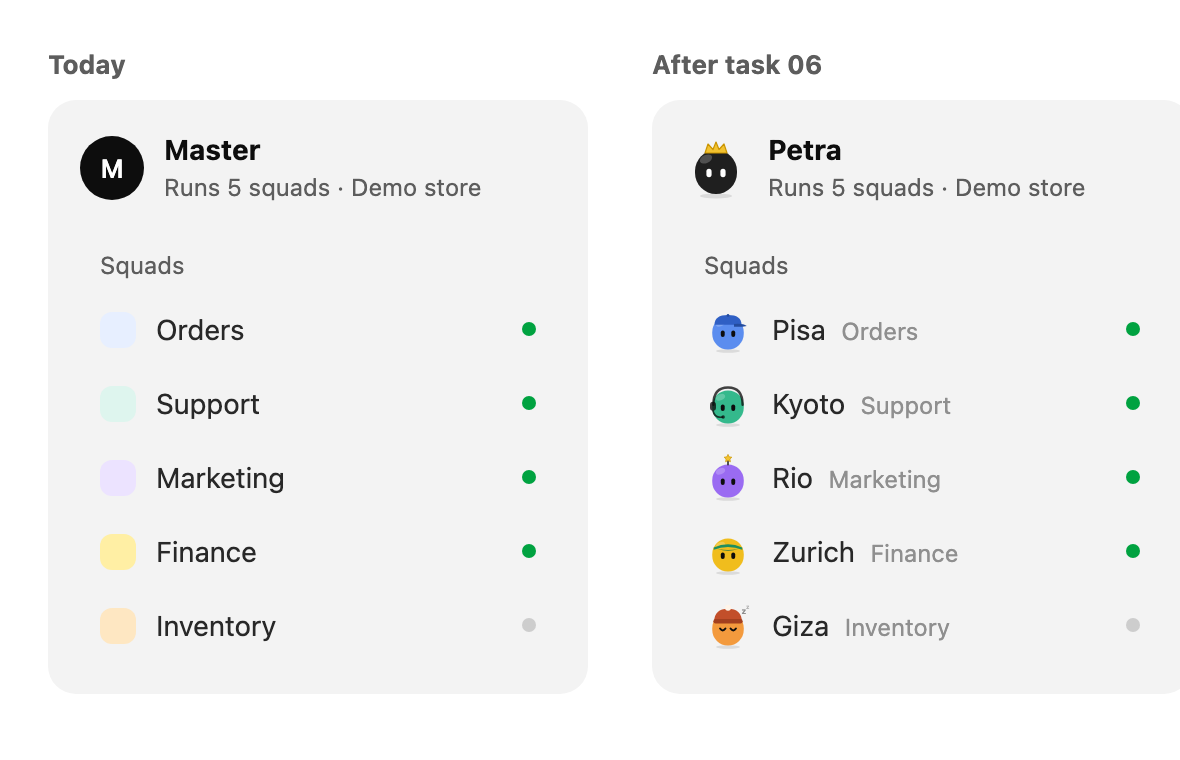
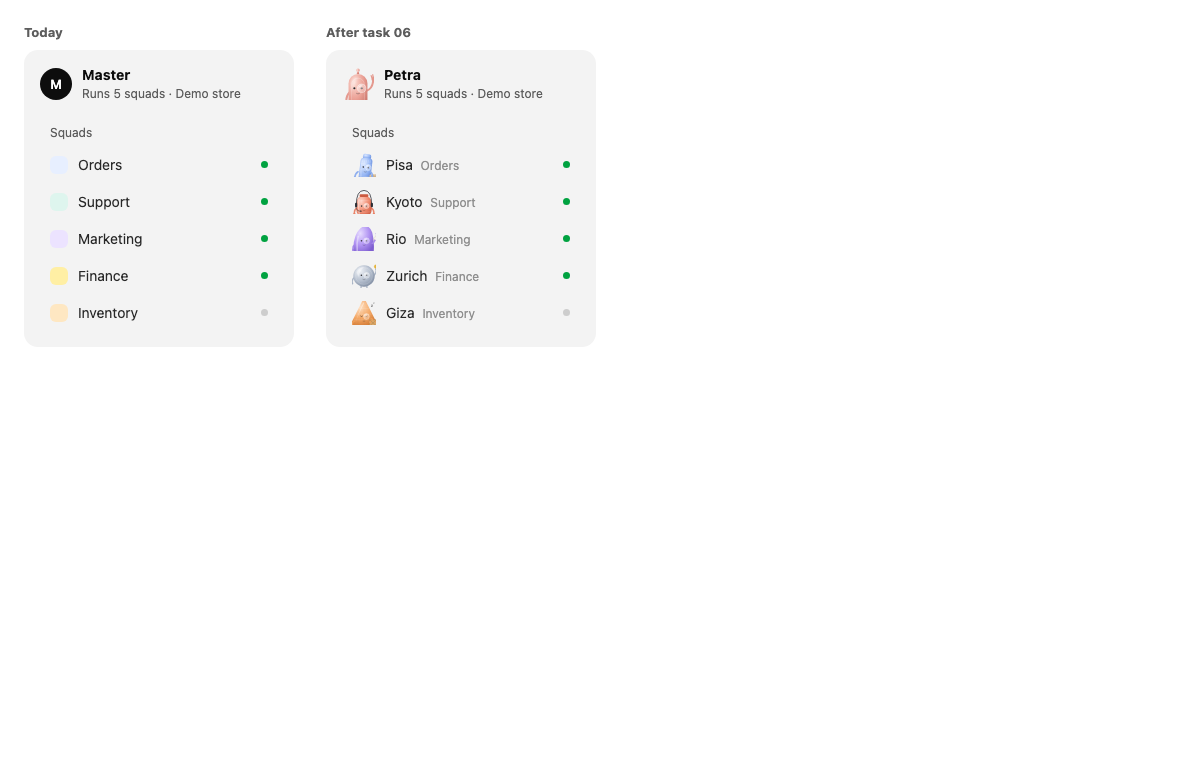
Show the current mascots in the squadmates sidebar design
The sidebar design still drew the old round characters. It now draws the frosted mascots from scripts/squadmates, the same code as the app. Giza shows the dropped state.

diff --git a/pages/squadmates-sidebar/sidebar.html b/pages/squadmates-sidebar/sidebar.html
@@ -3,45 +3,74 @@
 .mi{width:32px;height:32px;border-radius:50%;background:#0d0d0d;color:#fff;display:inline-flex;align-items:center;justify-content:center;font-weight:600;font-size:13px}
 .lb{font-size:12px;color:#5d5d5d;margin:0 0 6px 10px}.r{display:flex;align-items:center;gap:10px;height:37px;padding:0 10px;font-size:14px}.sq{width:18px;height:18px;border-radius:6px}.n{flex:1}.t{font-size:12px;color:#8f8f8f;margin-left:4px}.r i{width:7px;height:7px;border-radius:50%}</style></head><body>
 <div class="col"><h4>Today</h4><div class="sb"><div class="hd"><span class="mi">M</span><div><b>Master</b><small>Runs 5 squads · Demo store</small></div></div><div class="lb">Squads</div><div class="r"><span class="sq" style="background:#e7efff"></span><span class="n">Orders</span><i style="background:#00a240"></i></div><div class="r"><span class="sq" style="background:#def5ee"></span><span class="n">Support</span><i style="background:#00a240"></i></div><div class="r"><span class="sq" style="background:#ece3ff"></span><span class="n">Marketing</span><i style="background:#00a240"></i></div><div class="r"><span class="sq" style="background:#ffefa4"></span><span class="n">Finance</span><i style="background:#00a240"></i></div><div class="r"><span class="sq" style="background:#fee7c2"></span><span class="n">Inventory</span><i style="background:#cdcdcd"></i></div></div></div><div class="col"><h4>After task 06</h4><div class="sb"><div class="hd"><svg xmlns="http://www.w3.org/2000/svg" viewBox="0 0 64 64" width="32" height="32" role="img" aria-label="Petra, Master">
-<ellipse cx="32" cy="60" rx="16" ry="2.4" fill="rgba(13,13,13,.10)"/>
-<rect x="11" y="14" width="42" height="44" rx="21" fill="#1f1f1f"/>
-<ellipse cx="22" cy="23" rx="6.5" ry="4" fill="#fff" opacity=".22" transform="rotate(-24 22 23)"/>
-<path d="M21 17 L24 8 L29 13.5 L32 6 L35 13.5 L40 8 L43 17 Z" fill="#f2c230" stroke="#c99400" stroke-width="1.2" stroke-linejoin="round"/>
-<g class="sm-blink"><rect x="22.4" y="32.8" width="5.2" height="8.4" rx="2.6" fill="#ffffff"/><rect x="36.4" y="32.8" width="5.2" height="8.4" rx="2.6" fill="#ffffff"/></g>
+<defs><radialGradient id="sm-petra-b" cx="32%" cy="26%" r="85%"><stop offset="0" stop-color="#FBD8D0"/><stop offset=".55" stop-color="#EBA196"/><stop offset="1" stop-color="#C9746A"/></radialGradient><radialGradient id="sm-petra-l" cx="35%" cy="30%" r="75%"><stop offset="0" stop-color="#fff" stop-opacity=".55"/><stop offset="1" stop-color="#fff" stop-opacity=".08"/></radialGradient><filter id="sm-petra-f" x="-20%" y="-20%" width="140%" height="140%"><feGaussianBlur stdDeviation="6"/></filter><filter id="sm-petra-s" x="-50%" y="-50%" width="200%" height="200%"><feGaussianBlur stdDeviation="8"/></filter></defs><g transform="scale(0.30476) translate(-45 -45)"><path d="M125 300 L122 344" fill="none" stroke="#E3958A" stroke-width="13" stroke-linecap="round" stroke-linejoin="round" opacity=".96"/><path d="M175 300 L178 344" fill="none" stroke="#E3958A" stroke-width="13" stroke-linecap="round" stroke-linejoin="round" opacity=".96"/><ellipse cx="118" cy="347" rx="17" ry="9" fill="#E3958A"/><ellipse cx="182" cy="347" rx="17" ry="9" fill="#E3958A"/>
+<path d="M94 205 Q70 230 74 268" fill="none" stroke="#E3958A" stroke-width="13" stroke-linecap="round" stroke-linejoin="round" opacity=".96"/><circle cx="74" cy="270" r="10" fill="#E3958A"/>
+<path d="M206 195 Q244 182 250 128" fill="none" stroke="#E3958A" stroke-width="13" stroke-linecap="round" stroke-linejoin="round" opacity=".96"/><g transform="translate(250 118)"><ellipse rx="12" ry="14" fill="#E3958A"/><path d="M-9 -8 L-14 -24 M-2 -12 L-3 -30 M5 -11 L9 -28 M10 -5 L18 -18" stroke="#E3958A" stroke-width="7" stroke-linecap="round"/></g>
+<path d="M150 60 m-11 0 a11 11 0 1 0 22 0 a11 11 0 1 0 -22 0 M144 68 L156 68 L158 84 L142 84 Z" fill="url(#sm-petra-b)"/>
+<path d="M88 296 L88 146 A62 62 0 0 1 212 146 L212 296 Q212 310 198 310 L102 310 Q88 310 88 296 Z" fill="url(#sm-petra-b)"/>
+<path d="M108 300 L108 154 A42 42 0 0 1 192 154 L192 300" fill="none" stroke="#fff" stroke-opacity=".28" stroke-width="5"/>
+<path d="M104 150 A46 46 0 0 1 150 104 Q132 130 112 200 Z" fill="#fff" opacity=".42" filter="url(#sm-petra-f)"/>
+<g class="sm-blink"><circle cx="126" cy="178" r="7" fill="#1B1B1F"/><circle cx="123.55" cy="175.55" r="2.1" fill="#fff" opacity=".9"/><circle cx="174" cy="178" r="7" fill="#1B1B1F"/><circle cx="171.55" cy="175.55" r="2.1" fill="#fff" opacity=".9"/></g><circle cx="174" cy="178" r="27" fill="url(#sm-petra-l)" stroke="#fff" stroke-opacity=".9" stroke-width="4"/><circle cx="174" cy="178" r="20" fill="none" stroke="#fff" stroke-opacity=".45" stroke-width="2"/><path d="M159.15 168.55 A18.9 18.9 0 0 1 171.3 159.64" fill="none" stroke="#fff" stroke-width="4" stroke-linecap="round" opacity=".85"/><path d="M140 212 Q150 220 160 212" fill="none" stroke="#1B1B1F" stroke-width="3" stroke-linecap="round" opacity=".7"/></g>
 
 </svg><div><b>Petra</b><small>Runs 5 squads · Demo store</small></div></div><div class="lb">Squads</div><div class="r"><svg xmlns="http://www.w3.org/2000/svg" viewBox="0 0 64 64" width="24" height="24" role="img" aria-label="Pisa, Orders">
-<ellipse cx="32" cy="60" rx="16" ry="2.4" fill="rgba(13,13,13,.10)"/>
-<rect x="11" y="14" width="42" height="44" rx="21" fill="#5b8def"/>
-<ellipse cx="22" cy="23" rx="6.5" ry="4" fill="#fff" opacity=".22" transform="rotate(-24 22 23)"/>
-<path d="M14 25 Q14 12 32 12 Q50 12 50 25 Z" fill="#2f5fc4"/><path d="M40 24 Q52 23 57 26.5 Q50 28 40 27.5 Z" fill="#244c9e"/><circle cx="32" cy="12.5" r="1.8" fill="#244c9e"/>
-<g class="sm-blink"><rect x="22.4" y="32.8" width="5.2" height="8.4" rx="2.6" fill="#0d0d0d"/><rect x="36.4" y="32.8" width="5.2" height="8.4" rx="2.6" fill="#0d0d0d"/></g>
+<defs><radialGradient id="sm-pisa-b" cx="32%" cy="26%" r="85%"><stop offset="0" stop-color="#DCE8FF"/><stop offset=".55" stop-color="#97B7F5"/><stop offset="1" stop-color="#5F86D6"/></radialGradient><radialGradient id="sm-pisa-l" cx="35%" cy="30%" r="75%"><stop offset="0" stop-color="#fff" stop-opacity=".55"/><stop offset="1" stop-color="#fff" stop-opacity=".08"/></radialGradient><filter id="sm-pisa-f" x="-20%" y="-20%" width="140%" height="140%"><feGaussianBlur stdDeviation="6"/></filter><filter id="sm-pisa-s" x="-50%" y="-50%" width="200%" height="200%"><feGaussianBlur stdDeviation="8"/></filter></defs><g transform="scale(0.30476) translate(-45 -50)"><path d="M128 296 L125 344" fill="none" stroke="#8AACEE" stroke-width="13" stroke-linecap="round" stroke-linejoin="round" opacity=".96"/><path d="M182 296 L185 344" fill="none" stroke="#8AACEE" stroke-width="13" stroke-linecap="round" stroke-linejoin="round" opacity=".96"/><ellipse cx="121" cy="347" rx="17" ry="9" fill="#8AACEE"/><ellipse cx="189" cy="347" rx="17" ry="9" fill="#8AACEE"/>
+<g transform="rotate(7 150 300)">
+<rect x="114" y="58" width="72" height="44" rx="16" fill="url(#sm-pisa-b)"/>
+<rect x="98" y="92" width="104" height="212" rx="30" fill="url(#sm-pisa-b)"/>
+<path d="M104 146 L196 146 M104 200 L196 200 M104 254 L196 254" fill="none" stroke="#fff" stroke-opacity=".3" stroke-width="4" stroke-linecap="round" stroke-linejoin="round"/>
+<path d="M118 112 v18 M134 112 v18 M150 112 v18 M166 112 v18 M182 112 v18" stroke="#fff" stroke-opacity=".35" stroke-width="5" stroke-linecap="round"/>
+<path d="M106 110 Q104 200 112 290 L122 290 Q114 200 118 110 Z" fill="#fff" opacity=".42" filter="url(#sm-pisa-f)"/>
+<g class="sm-blink"><circle cx="128" cy="174" r="7" fill="#1B1B1F"/><circle cx="125.55" cy="171.55" r="2.1" fill="#fff" opacity=".9"/><circle cx="172" cy="174" r="7" fill="#1B1B1F"/><circle cx="169.55" cy="171.55" r="2.1" fill="#fff" opacity=".9"/></g><circle cx="172" cy="174" r="24" fill="url(#sm-pisa-l)" stroke="#fff" stroke-opacity=".9" stroke-width="4"/><circle cx="172" cy="174" r="17" fill="none" stroke="#fff" stroke-opacity=".45" stroke-width="2"/><path d="M158.8 165.6 A16.799999999999997 16.799999999999997 0 0 1 169.6 157.68" fill="none" stroke="#fff" stroke-width="4" stroke-linecap="round" opacity=".85"/><path d="M140 214 Q150 222 160 214" fill="none" stroke="#1B1B1F" stroke-width="3" stroke-linecap="round" opacity=".7"/>
+</g>
+<path d="M98 214 Q72 230 70 262" fill="none" stroke="#8AACEE" stroke-width="13" stroke-linecap="round" stroke-linejoin="round" opacity=".96"/><circle cx="70" cy="264" r="10" fill="#8AACEE"/>
+<g transform="rotate(-4 236 268)"><rect x="200" y="238" width="72" height="56" rx="8" fill="#E2C49A"/><path d="M200 258 L272 258 M236 238 L236 258" stroke="#C9A472" stroke-width="5"/></g>
+<path d="M204 214 Q226 226 222 250" fill="none" stroke="#8AACEE" stroke-width="13" stroke-linecap="round" stroke-linejoin="round" opacity=".96"/><circle cx="222" cy="252" r="10" fill="#8AACEE"/><circle cx="262" cy="246" r="10" fill="#8AACEE"/></g>
 
 </svg><span class="n">Pisa <span class="t">Orders</span></span><i style="background:#00a240"></i></div><div class="r"><svg xmlns="http://www.w3.org/2000/svg" viewBox="0 0 64 64" width="24" height="24" role="img" aria-label="Kyoto, Support">
-<ellipse cx="32" cy="60" rx="16" ry="2.4" fill="rgba(13,13,13,.10)"/>
-<rect x="11" y="14" width="42" height="44" rx="21" fill="#34b98c"/>
-<ellipse cx="22" cy="23" rx="6.5" ry="4" fill="#fff" opacity=".22" transform="rotate(-24 22 23)"/>
-<path d="M12.5 33 Q12.5 10 32 10 Q51.5 10 51.5 33" fill="none" stroke="rgba(13,13,13,.78)" stroke-width="3.2" stroke-linecap="round"/><rect x="8" y="29" width="8" height="12" rx="4" fill="rgba(13,13,13,.78)"/><path d="M12 41 Q14 51 24.5 49.5" fill="none" stroke="rgba(13,13,13,.78)" stroke-width="2.2" stroke-linecap="round"/><circle cx="25.5" cy="49.3" r="2.3" fill="rgba(13,13,13,.78)"/>
-<g class="sm-blink"><rect x="22.4" y="32.8" width="5.2" height="8.4" rx="2.6" fill="#0d0d0d"/><rect x="36.4" y="32.8" width="5.2" height="8.4" rx="2.6" fill="#0d0d0d"/></g>
+<defs><radialGradient id="sm-kyoto-b" cx="32%" cy="26%" r="85%"><stop offset="0" stop-color="#FFD3C7"/><stop offset=".55" stop-color="#F08B70"/><stop offset="1" stop-color="#CC5A40"/></radialGradient><radialGradient id="sm-kyoto-l" cx="35%" cy="30%" r="75%"><stop offset="0" stop-color="#fff" stop-opacity=".55"/><stop offset="1" stop-color="#fff" stop-opacity=".08"/></radialGradient><filter id="sm-kyoto-f" x="-20%" y="-20%" width="140%" height="140%"><feGaussianBlur stdDeviation="6"/></filter><filter id="sm-kyoto-s" x="-50%" y="-50%" width="200%" height="200%"><feGaussianBlur stdDeviation="8"/></filter></defs><g transform="scale(0.29091) translate(-40 -50)"><path d="M126 296 L123 344" fill="none" stroke="#E98065" stroke-width="13" stroke-linecap="round" stroke-linejoin="round" opacity=".96"/><path d="M174 296 L177 344" fill="none" stroke="#E98065" stroke-width="13" stroke-linecap="round" stroke-linejoin="round" opacity=".96"/><ellipse cx="119" cy="347" rx="17" ry="9" fill="#E98065"/><ellipse cx="181" cy="347" rx="17" ry="9" fill="#E98065"/>
+<path d="M84 214 Q58 234 62 266" fill="none" stroke="#E98065" stroke-width="13" stroke-linecap="round" stroke-linejoin="round" opacity=".96"/><circle cx="62" cy="268" r="10" fill="#E98065"/>
+<path d="M216 214 Q244 232 240 266" fill="none" stroke="#E98065" stroke-width="13" stroke-linecap="round" stroke-linejoin="round" opacity=".96"/><circle cx="240" cy="268" r="10" fill="#E98065"/>
+<rect x="80" y="102" width="140" height="196" rx="66" fill="url(#sm-kyoto-b)"/>
+<rect x="110" y="88" width="80" height="26" rx="9" fill="#CC5A40"/>
+<rect x="110" y="286" width="80" height="22" rx="9" fill="#CC5A40"/>
+<path d="M92 150 Q150 138 208 150 M86 200 Q150 190 214 200 M92 250 Q150 262 208 250" fill="none" stroke="#fff" stroke-opacity=".3" stroke-width="4" stroke-linecap="round" stroke-linejoin="round"/>
+<path d="M98 130 Q86 200 100 270 L112 270 Q100 200 110 130 Z" fill="#fff" opacity=".42" filter="url(#sm-kyoto-f)"/>
+<g class="sm-blink"><circle cx="128" cy="196" r="7" fill="#1B1B1F"/><circle cx="125.55" cy="193.55" r="2.1" fill="#fff" opacity=".9"/><circle cx="172" cy="196" r="7" fill="#1B1B1F"/><circle cx="169.55" cy="193.55" r="2.1" fill="#fff" opacity=".9"/></g><circle cx="172" cy="196" r="24" fill="url(#sm-kyoto-l)" stroke="#fff" stroke-opacity=".9" stroke-width="4"/><circle cx="172" cy="196" r="17" fill="none" stroke="#fff" stroke-opacity=".45" stroke-width="2"/><path d="M158.8 187.6 A16.799999999999997 16.799999999999997 0 0 1 169.6 179.68" fill="none" stroke="#fff" stroke-width="4" stroke-linecap="round" opacity=".85"/><path d="M140 236 Q150 244 160 236" fill="none" stroke="#1B1B1F" stroke-width="3" stroke-linecap="round" opacity=".7"/>
+<path d="M80 186 Q78 54 150 54 Q222 54 220 186" fill="none" stroke="#2A2D34" stroke-width="7" stroke-linecap="round"/>
+<rect x="68" y="168" width="20" height="40" rx="9" fill="#2A2D34"/><rect x="212" y="168" width="20" height="40" rx="9" fill="#2A2D34"/>
+<path d="M74 206 Q84 250 120 244" fill="none" stroke="#2A2D34" stroke-width="5" stroke-linecap="round"/><circle cx="122" cy="244" r="6" fill="#2A2D34"/></g>
 
 </svg><span class="n">Kyoto <span class="t">Support</span></span><i style="background:#00a240"></i></div><div class="r"><svg xmlns="http://www.w3.org/2000/svg" viewBox="0 0 64 64" width="24" height="24" role="img" aria-label="Rio, Marketing">
-<ellipse cx="32" cy="60" rx="16" ry="2.4" fill="rgba(13,13,13,.10)"/>
-<rect x="11" y="14" width="42" height="44" rx="21" fill="#9a6bf2"/>
-<ellipse cx="22" cy="23" rx="6.5" ry="4" fill="#fff" opacity=".22" transform="rotate(-24 22 23)"/>
-<path d="M32 14 L32 6" stroke="rgba(13,13,13,.78)" stroke-width="2.4" stroke-linecap="round"/><path d="M32 0.5 l1.6 3.3 l3.6 .5 l-2.6 2.5 l.6 3.6 l-3.2 -1.7 l-3.2 1.7 l.6 -3.6 l-2.6 -2.5 l3.6 -.5 z" fill="#f2c230" stroke="#c99400" stroke-width=".9" stroke-linejoin="round"/>
-<g class="sm-blink"><rect x="22.4" y="32.8" width="5.2" height="8.4" rx="2.6" fill="#0d0d0d"/><rect x="36.4" y="32.8" width="5.2" height="8.4" rx="2.6" fill="#0d0d0d"/></g>
+<defs><radialGradient id="sm-rio-b" cx="32%" cy="26%" r="85%"><stop offset="0" stop-color="#E6DBFF"/><stop offset=".55" stop-color="#B194F2"/><stop offset="1" stop-color="#7E5ED0"/></radialGradient><radialGradient id="sm-rio-l" cx="35%" cy="30%" r="75%"><stop offset="0" stop-color="#fff" stop-opacity=".55"/><stop offset="1" stop-color="#fff" stop-opacity=".08"/></radialGradient><filter id="sm-rio-f" x="-20%" y="-20%" width="140%" height="140%"><feGaussianBlur stdDeviation="6"/></filter><filter id="sm-rio-s" x="-50%" y="-50%" width="200%" height="200%"><feGaussianBlur stdDeviation="8"/></filter></defs><g transform="scale(0.29091) translate(-45 -70)"><path d="M124 296 L121 344" fill="none" stroke="#A88BEB" stroke-width="13" stroke-linecap="round" stroke-linejoin="round" opacity=".96"/><path d="M180 296 L183 344" fill="none" stroke="#A88BEB" stroke-width="13" stroke-linecap="round" stroke-linejoin="round" opacity=".96"/><ellipse cx="117" cy="347" rx="17" ry="9" fill="#A88BEB"/><ellipse cx="187" cy="347" rx="17" ry="9" fill="#A88BEB"/>
+<path d="M76 226 Q48 244 54 278" fill="none" stroke="#A88BEB" stroke-width="13" stroke-linecap="round" stroke-linejoin="round" opacity=".96"/><circle cx="54" cy="280" r="10" fill="#A88BEB"/>
+<path d="M68 300 Q56 156 130 86 Q190 40 222 120 Q244 200 236 300 Z" fill="url(#sm-rio-b)" stroke="url(#sm-rio-b)" stroke-width="16" stroke-linejoin="round"/>
+<path d="M96 150 Q76 220 86 290 L100 290 Q92 220 110 150 Z" fill="#fff" opacity=".42" filter="url(#sm-rio-f)"/>
+<g class="sm-blink"><circle cx="132" cy="196" r="7" fill="#1B1B1F"/><circle cx="129.55" cy="193.55" r="2.1" fill="#fff" opacity=".9"/><circle cx="178" cy="196" r="7" fill="#1B1B1F"/><circle cx="175.55" cy="193.55" r="2.1" fill="#fff" opacity=".9"/></g><circle cx="178" cy="196" r="26" fill="url(#sm-rio-l)" stroke="#fff" stroke-opacity=".9" stroke-width="4"/><circle cx="178" cy="196" r="19" fill="none" stroke="#fff" stroke-opacity=".45" stroke-width="2"/><path d="M163.7 186.9 A18.2 18.2 0 0 1 175.4 178.32" fill="none" stroke="#fff" stroke-width="4" stroke-linecap="round" opacity=".85"/><path d="M146 236 Q156 244 166 236" fill="none" stroke="#1B1B1F" stroke-width="3" stroke-linecap="round" opacity=".7"/>
+<path d="M230 220 Q250 214 252 194" fill="none" stroke="#A88BEB" stroke-width="13" stroke-linecap="round" stroke-linejoin="round" opacity=".96"/>
+<g transform="rotate(-30 252 186)"><path d="M248 176 L276 162 L276 206 L248 192 Z" fill="#F7F3EC" stroke="#D9D1C2" stroke-width="3" stroke-linejoin="round"/><rect x="238" y="178" width="12" height="16" rx="4" fill="#D9D1C2"/></g>
+<circle cx="252" cy="194" r="10" fill="#A88BEB"/>
+<path d="M262 128 Q272 136 268 148 M272 114 Q288 130 280 152" fill="none" stroke="#7E5ED0" stroke-width="4" stroke-linecap="round" opacity=".7"/></g>
 
 </svg><span class="n">Rio <span class="t">Marketing</span></span><i style="background:#00a240"></i></div><div class="r"><svg xmlns="http://www.w3.org/2000/svg" viewBox="0 0 64 64" width="24" height="24" role="img" aria-label="Zurich, Finance">
-<ellipse cx="32" cy="60" rx="16" ry="2.4" fill="rgba(13,13,13,.10)"/>
-<rect x="11" y="14" width="42" height="44" rx="21" fill="#f0bd1d"/>
-<ellipse cx="22" cy="23" rx="6.5" ry="4" fill="#fff" opacity=".22" transform="rotate(-24 22 23)"/>
-<path d="M13 26 Q32 17 51 26 L51 29 Q32 21.5 13 29 Z" fill="#1f8f5f"/><path d="M18 27.5 Q32 33 46 27.5 Q32 31 18 27.5 Z" fill="#167048" opacity=".9"/>
-<g class="sm-blink"><rect x="22.4" y="32.8" width="5.2" height="8.4" rx="2.6" fill="#0d0d0d"/><rect x="36.4" y="32.8" width="5.2" height="8.4" rx="2.6" fill="#0d0d0d"/></g>
+<defs><radialGradient id="sm-zurich-b" cx="32%" cy="26%" r="85%"><stop offset="0" stop-color="#EEF1F6"/><stop offset=".55" stop-color="#B6C0CF"/><stop offset="1" stop-color="#7E8BA0"/></radialGradient><radialGradient id="sm-zurich-l" cx="35%" cy="30%" r="75%"><stop offset="0" stop-color="#fff" stop-opacity=".55"/><stop offset="1" stop-color="#fff" stop-opacity=".08"/></radialGradient><filter id="sm-zurich-f" x="-20%" y="-20%" width="140%" height="140%"><feGaussianBlur stdDeviation="6"/></filter><filter id="sm-zurich-s" x="-50%" y="-50%" width="200%" height="200%"><feGaussianBlur stdDeviation="8"/></filter></defs><g transform="scale(0.29091) translate(-40 -90)"><path d="M124 286 L121 344" fill="none" stroke="#A9B4C5" stroke-width="13" stroke-linecap="round" stroke-linejoin="round" opacity=".96"/><path d="M176 286 L179 344" fill="none" stroke="#A9B4C5" stroke-width="13" stroke-linecap="round" stroke-linejoin="round" opacity=".96"/><ellipse cx="117" cy="347" rx="17" ry="9" fill="#A9B4C5"/><ellipse cx="183" cy="347" rx="17" ry="9" fill="#A9B4C5"/>
+<path d="M62 214 Q36 232 42 266" fill="none" stroke="#A9B4C5" stroke-width="13" stroke-linecap="round" stroke-linejoin="round" opacity=".96"/><circle cx="42" cy="268" r="10" fill="#A9B4C5"/>
+<path d="M238 196 Q266 176 262 140" fill="none" stroke="#A9B4C5" stroke-width="13" stroke-linecap="round" stroke-linejoin="round" opacity=".96"/><circle cx="262" cy="138" r="10" fill="#A9B4C5"/>
+<circle cx="262" cy="114" r="18" fill="#F3C548" stroke="#D69E20" stroke-width="3"/><circle cx="262" cy="114" r="10" fill="none" stroke="#B9851A" stroke-width="2.5"/>
+<circle cx="150" cy="200" r="98" fill="url(#sm-zurich-b)"/>
+<circle cx="150" cy="200" r="94" fill="none" stroke="#7E8BA0" stroke-opacity=".45" stroke-width="7" stroke-dasharray="3 6"/>
+<circle cx="150" cy="200" r="76" fill="none" stroke="#fff" stroke-opacity=".35" stroke-width="4"/>
+<path d="M84 170 A70 70 0 0 1 150 120 Q110 150 98 210 Z" fill="#fff" opacity=".42" filter="url(#sm-zurich-f)"/>
+<g class="sm-blink"><circle cx="126" cy="194" r="7" fill="#1B1B1F"/><circle cx="123.55" cy="191.55" r="2.1" fill="#fff" opacity=".9"/><circle cx="174" cy="194" r="7" fill="#1B1B1F"/><circle cx="171.55" cy="191.55" r="2.1" fill="#fff" opacity=".9"/></g><circle cx="174" cy="194" r="26" fill="url(#sm-zurich-l)" stroke="#fff" stroke-opacity=".9" stroke-width="4"/><circle cx="174" cy="194" r="19" fill="none" stroke="#fff" stroke-opacity=".45" stroke-width="2"/><path d="M159.7 184.9 A18.2 18.2 0 0 1 171.4 176.32" fill="none" stroke="#fff" stroke-width="4" stroke-linecap="round" opacity=".85"/><path d="M140 232 Q150 240 160 232" fill="none" stroke="#1B1B1F" stroke-width="3" stroke-linecap="round" opacity=".7"/></g>
 
 </svg><span class="n">Zurich <span class="t">Finance</span></span><i style="background:#00a240"></i></div><div class="r"><svg xmlns="http://www.w3.org/2000/svg" viewBox="0 0 64 64" width="24" height="24" role="img" aria-label="Giza, Inventory, dropped">
-<ellipse cx="32" cy="60" rx="16" ry="2.4" fill="rgba(13,13,13,.10)"/>
-<rect x="11" y="14" width="42" height="44" rx="21" fill="#f39a3d"/>
-<ellipse cx="22" cy="23" rx="6.5" ry="4" fill="#fff" opacity=".22" transform="rotate(-24 22 23)"/>
-<path d="M13.5 26 Q14 9 32 9 Q50 9 50.5 26 Z" fill="#c24f2a"/><rect x="12.5" y="22.5" width="39" height="6" rx="3" fill="#a3401f"/><circle cx="32" cy="7.5" r="4" fill="#fff4e8"/>
-<g><path d="M21.4 35.4 Q25 40.4 28.6 35.4" fill="none" stroke="#0d0d0d" stroke-width="2.6" stroke-linecap="round"/><path d="M35.4 35.4 Q39 40.4 42.6 35.4" fill="none" stroke="#0d0d0d" stroke-width="2.6" stroke-linecap="round"/></g>
+<defs><radialGradient id="sm-giza-b" cx="32%" cy="26%" r="85%"><stop offset="0" stop-color="#FFE1C4"/><stop offset=".55" stop-color="#F4A866"/><stop offset="1" stop-color="#D27A34"/></radialGradient><radialGradient id="sm-giza-l" cx="35%" cy="30%" r="75%"><stop offset="0" stop-color="#fff" stop-opacity=".55"/><stop offset="1" stop-color="#fff" stop-opacity=".08"/></radialGradient><filter id="sm-giza-f" x="-20%" y="-20%" width="140%" height="140%"><feGaussianBlur stdDeviation="6"/></filter><filter id="sm-giza-s" x="-50%" y="-50%" width="200%" height="200%"><feGaussianBlur stdDeviation="8"/></filter></defs><g transform="scale(0.29091) translate(-40 -80)"><path d="M122 296 L119 344" fill="none" stroke="#EE9F5A" stroke-width="13" stroke-linecap="round" stroke-linejoin="round" opacity=".96"/><path d="M178 296 L181 344" fill="none" stroke="#EE9F5A" stroke-width="13" stroke-linecap="round" stroke-linejoin="round" opacity=".96"/><ellipse cx="115" cy="347" rx="17" ry="9" fill="#EE9F5A"/><ellipse cx="185" cy="347" rx="17" ry="9" fill="#EE9F5A"/>
+<path d="M150 74 L262 298 L38 298 Z" fill="url(#sm-giza-b)" stroke="url(#sm-giza-b)" stroke-width="24" stroke-linejoin="round"/>
+<path d="M110 150 L190 150 M86 200 L214 200 M62 252 L238 252" fill="none" stroke="#fff" stroke-opacity=".3" stroke-width="4" stroke-linecap="round" stroke-linejoin="round"/>
+<path d="M150 150 v50 M118 200 v52 M182 200 v52 M150 252 v40 M94 252 v40 M206 252 v40" stroke="#D27A34" stroke-opacity=".25" stroke-width="3"/>
+<path d="M146 90 Q112 160 74 270 Q104 190 150 104 Z" fill="#fff" opacity=".42" filter="url(#sm-giza-f)"/>
+<g><path d="M120 219 Q128 229 136 219" fill="none" stroke="#1B1B1F" stroke-width="4.5" stroke-linecap="round"/><path d="M164 219 Q172 229 180 219" fill="none" stroke="#1B1B1F" stroke-width="4.5" stroke-linecap="round"/></g><circle cx="172" cy="222" r="26" fill="url(#sm-giza-l)" stroke="#fff" stroke-opacity=".9" stroke-width="4"/><circle cx="172" cy="222" r="19" fill="none" stroke="#fff" stroke-opacity=".45" stroke-width="2"/><path d="M157.7 212.9 A18.2 18.2 0 0 1 169.4 204.32" fill="none" stroke="#fff" stroke-width="4" stroke-linecap="round" opacity=".85"/><path d="M142 265 L158 265" stroke="#1B1B1F" stroke-width="3" stroke-linecap="round" opacity=".7"/>
+<path d="M66 262 Q40 270 42 300" fill="none" stroke="#EE9F5A" stroke-width="13" stroke-linecap="round" stroke-linejoin="round" opacity=".96"/><circle cx="42" cy="302" r="10" fill="#EE9F5A"/>
+<rect x="200" y="252" width="66" height="58" rx="6" fill="#D9A86A"/><path d="M200 252 L266 310 M266 252 L200 310" stroke="#B9874A" stroke-width="5"/><rect x="200" y="252" width="66" height="58" rx="6" fill="none" stroke="#B9874A" stroke-width="5"/>
+<path d="M226 256 Q232 240 214 244" fill="none" stroke="#EE9F5A" stroke-width="13" stroke-linecap="round" stroke-linejoin="round" opacity=".96"/><circle cx="206" cy="274" r="10" fill="#EE9F5A"/><circle cx="262" cy="270" r="10" fill="#EE9F5A"/></g>
 <text x="50" y="16" font-family="Inter,system-ui,sans-serif" font-size="11" font-weight="700" fill="#8f8f8f">z</text><text x="56" y="9" font-family="Inter,system-ui,sans-serif" font-size="8" font-weight="700" fill="#b4b4b4">z</text>
 </svg><span class="n">Giza <span class="t">Inventory</span></span><i style="background:#cdcdcd"></i></div></div></div></body></html>
